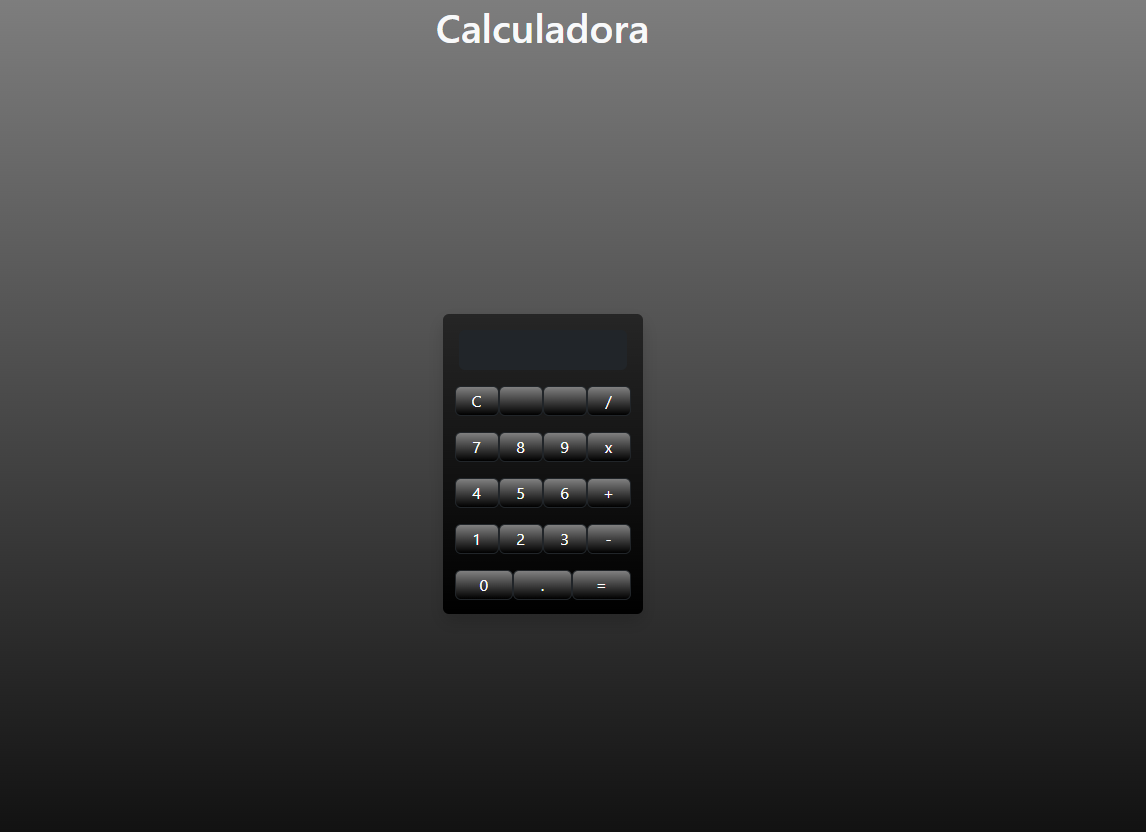
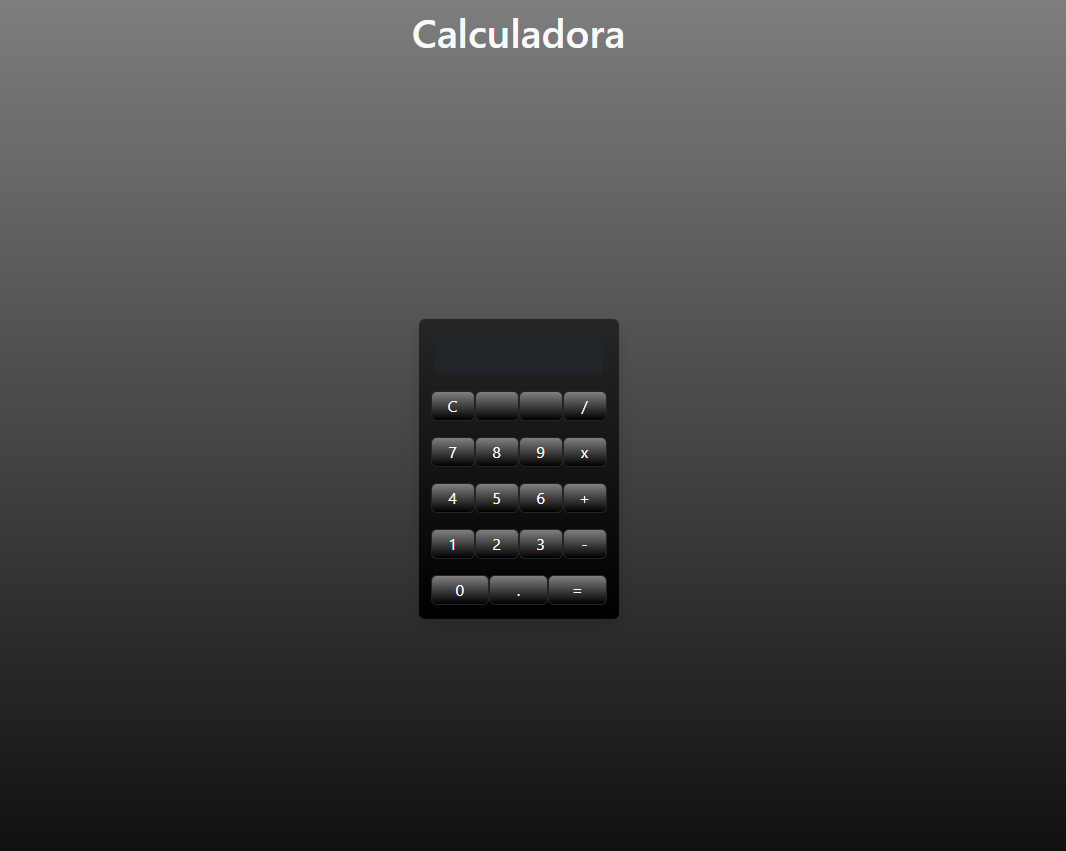
Responsivity

Changed region(s): [[0.3715, 0.375, 0.5882, 0.75], [0.3715, 0.0, 0.5882, 0.0625]]

diff --git a/index.html b/index.html
@@ -47,24 +47,49 @@
             As linguagens que conheço são:
         </p>
 
-        <ul class="list">
-            <li>Html</li>
-            <li>Css</li>
-            <li>Python</li>
-        </ul>
+        <div class="skill">
+            <div class="skill-name">HTML</div>
 
-        <h3>Meus projetos</h3>
-        <div class="carrossel">
-            <div class="slides">
-                <img src="assets/lanterna.png" alt="Lampada">
-                <img src="assets/calculadora.png" alt="calculadora">
-                <img src="https://via.placeholder.com/800x300?text=Slide+3" alt="Slide 3">
-            </div>
-            <div class="botoes">
-                <button id="prev">❮</button>
-                <button id="next">❯</button>
+            <div class="progress-bar">
+                <span class="progress html"></span>
             </div>
         </div>
+
+        <div class="skill">
+            <div class="skill-name">CSS</div>
+
+            <div class="progress-bar">
+                <span class="progress css"></span>
+            </div>
+        </div>
+
+        <div class="skill">
+            <div class="skill-name">JAVASCRIPT</div>
+
+            <div class="progress-bar">
+                <span class="progress javascript"></span>
+            </div>
+            </div>
+
+
+        <h3>Meus projetos</h3>
+        <div class="carousel">
+        <div class="carousel-track" id="track">
+            <a class="carousel-slide" href="https://example.com/1" target="_blank">
+                <img src="assets/calculadora.png" alt="Imagem 1">
+            </a>
+            <a class="carousel-slide" href="https://raonilima54.github.io/Kanban/" target="kanban">
+                <img src="assets/kanban.png" alt="Imagem 2">
+            </a>
+            <a class="carousel-slide" href="https://raonilima54.github.io/Lampada/" target="lambada">
+                <img src="assets/lampada.png" alt="Imagem 3">
+            </a>
+        </div>
+        <div class="carousel-nav">
+            <button class="carousel-button" onclick="moveSlide(-1)">&#10094;</button>
+            <button class="carousel-button" onclick="moveSlide(1)">&#10095;</button>
+        </div>
+</div>
 
     </div>
 

diff --git a/assets/style.css b/assets/style.css
@@ -5,9 +5,11 @@ body {
     margin: 0;
 }
 
-.container{
-    width: 900px;
+.container {
+    max-width: 900px;
+    width: 90%;
     margin: 0 auto;
+    padding: 0 15px;
 }
 
 .profile{
@@ -34,7 +36,7 @@ body {
 }
 
 h1{
-    font-family: "PT Sans", serif;
+    font-family: "Raleway", serif;
     margin-top: 10px;
     margin-bottom: 0px;
     letter-spacing: -1px;
@@ -66,41 +68,78 @@ p{
     
 }
 
-.carrossel {
+* { box-sizing: border-box; }
+    body { font-family: sans-serif; margin: 0; padding: 0; }
+
+    .carousel {
       position: relative;
-      width: 80%;
+      width: 100%;
+      max-width: 800px;
       margin: 50px auto;
       overflow: hidden;
       border-radius: 10px;
-      box-shadow: 0 4px 10px rgba(0,0,0,0.2);
     }
 
-    .slides {
+    .carousel-track {
       display: flex;
       transition: transform 0.5s ease-in-out;
     }
 
-    .slides img {
+    .carousel-slide {
+      min-width: 100%;
+      transition: transform 0.5s ease;
+    }
+
+    .carousel-slide img {
       width: 100%;
       display: block;
     }
 
-    .botoes {
+    .carousel-nav {
       position: absolute;
       top: 50%;
       width: 100%;
       display: flex;
       justify-content: space-between;
       transform: translateY(-50%);
+      padding: 0 10px;
     }
 
-    .botoes button {
-      background: rgba(0,0,0,0.5);
+    .carousel-button {
+      background: rgba(0, 0, 0, 0.5);
       border: none;
-      color: #fff;
-      padding: 10px;
+      color: white;
+      font-size: 24px;
       cursor: pointer;
+      padding: 10px;
+      border-radius: 50%;
     }
+    .skill {
+      margin: 20px 0;
+    }
+
+    .skill-name {
+      margin-bottom: 5px;
+      font-weight: bold;
+      color: rgb(0, 0, 0);
+    }
+
+    .progress-bar {
+      background-color: #5e5555;
+      border-radius: 20px;
+      padding: 5px;
+    }
+
+    .progress {
+      display: block;
+      height: 20px;
+      border-radius: 20px;
+      background-color: #83dd83;
+    }
+
+    .html { width: 80%; }
+    .css { width: 50%; }
+    .javascript { width: 30%; }
 
 
 

diff --git a/assets/scripty.js b/assets/scripty.js
@@ -1,17 +1,10 @@
-const slides = document.querySelector('.slides');
-  const totalSlides = document.querySelectorAll('.slides img').length;
-  let index = 0;
+let index = 0;
+  const track = document.getElementById('track');
+  const slides = document.querySelectorAll('.carousel-slide');
 
-  document.getElementById('next').addEventListener('click', () => {
-    index = (index + 1) % totalSlides;
-    updateCarousel();
-  });
-
-  document.getElementById('prev').addEventListener('click', () => {
-    index = (index - 1 + totalSlides) % totalSlides;
-    updateCarousel();
-  });
-
-  function updateCarousel() {
-    slides.style.transform = 'translateX(' + (-index * 100) + '%)';
+  function moveSlide(direction) {
+    index += direction;
+    if (index < 0) index = slides.length - 1;
+    if (index >= slides.length) index = 0;
+    track.style.transform = `translateX(-${index * 100}%)`;
   }
